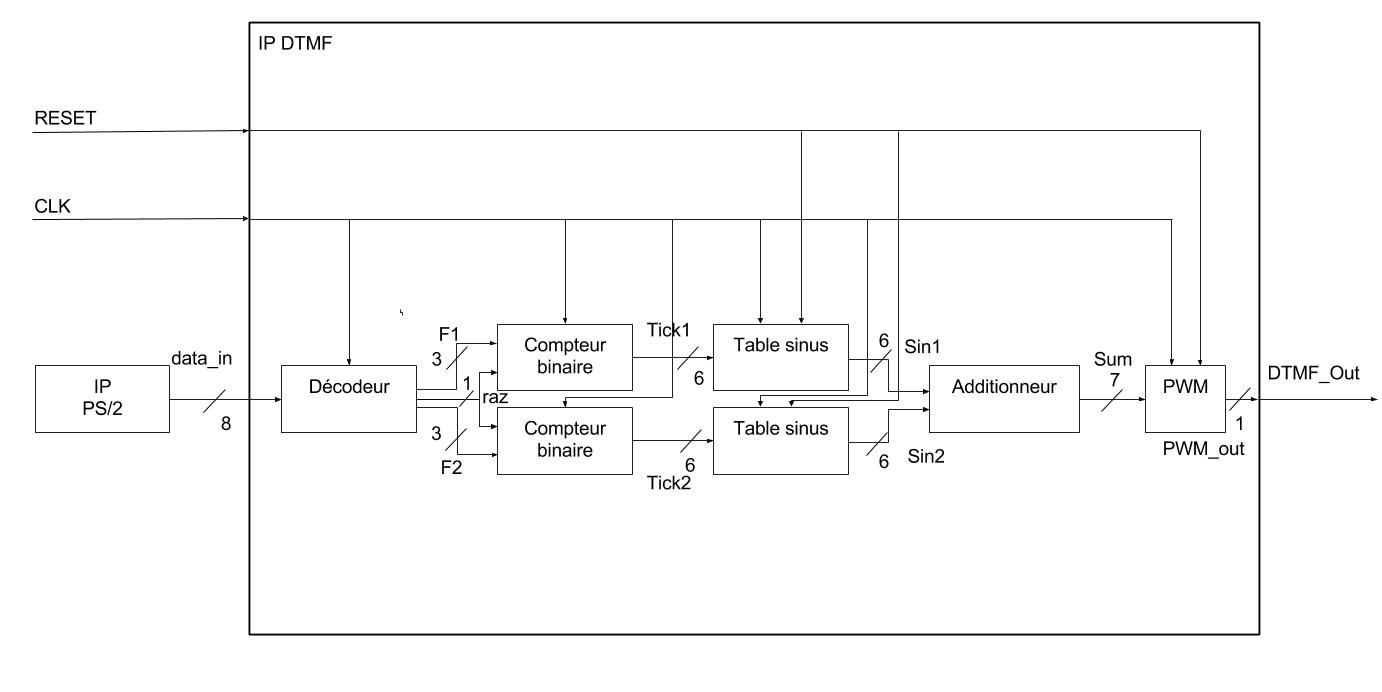
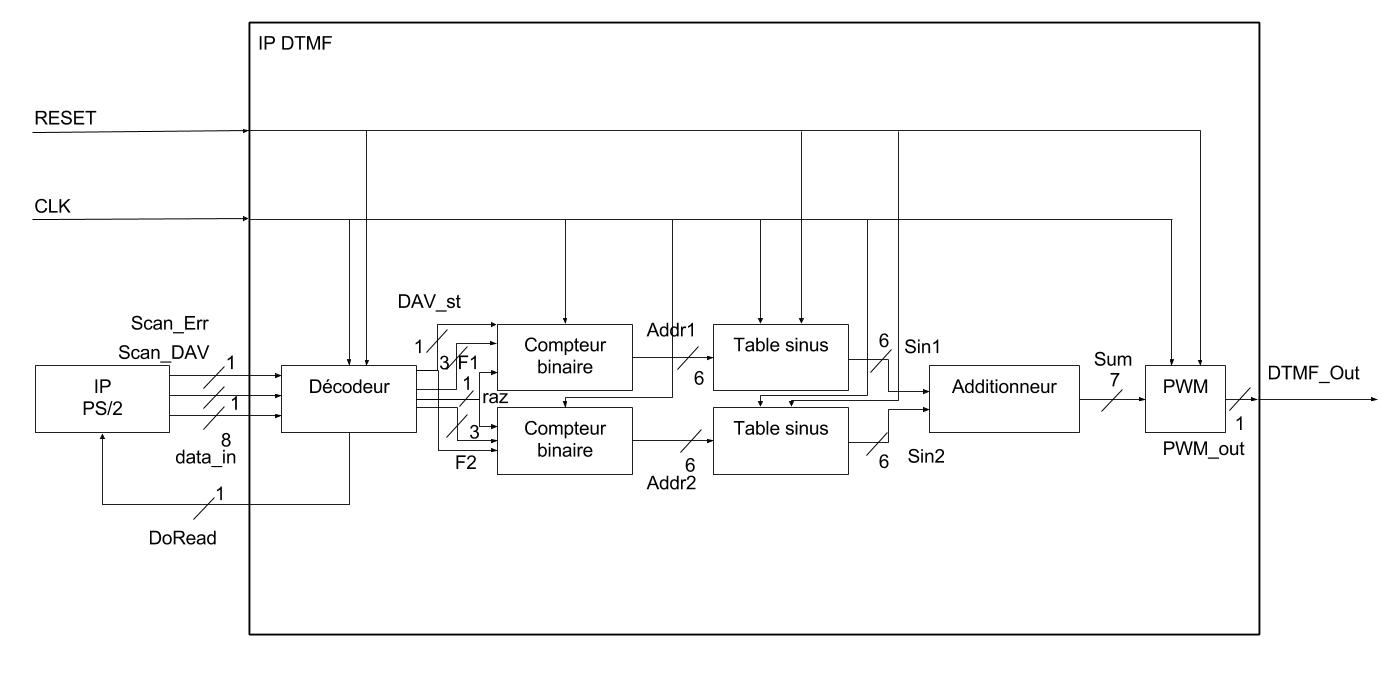
Update IP scheme and sinus table

diff --git a/table_sin.c b/table_sin.c
@@ -1,13 +1,32 @@
 #include <stdio.h>
+#include <stdlib.h>
 #include <math.h>
 
 
 int main() {
-	int i;
+	int i, j, k;
 	int x;
+	char iInBin[7] = {'0'};
+	char xInBin[7] = {'0'};
 	for (i = 0 ; i < 64 ; i++) {
 		x  = lrint(31 * sinf(2 * 3.14 * i / 64));
-		printf("%d\n", x);
+		for (j = 6 ; j >= 0 ; j--) {
+			k = i >> j; 
+			iInBin[5 - j] = (k & 1) + '0';
+		}
+		iInBin[6] = '\0';
+
+		if (x < 0) {
+			xInBin[0] = '1';
+		} else {
+			xInBin[0] = '0';
+		}
+		for (j = 5 ; j > 0 ; j--) {
+			k = abs(x) >> j; 
+			xInBin[5 - j + 1] = (k & 1) + '0';
+		}
+		xInBin[6] = '\0';
+		printf("\t\t\t\twhen \"%s\" => SIN <= \"%s\";\n", iInBin, xInBin);
 	}
 	return 0;
 }
